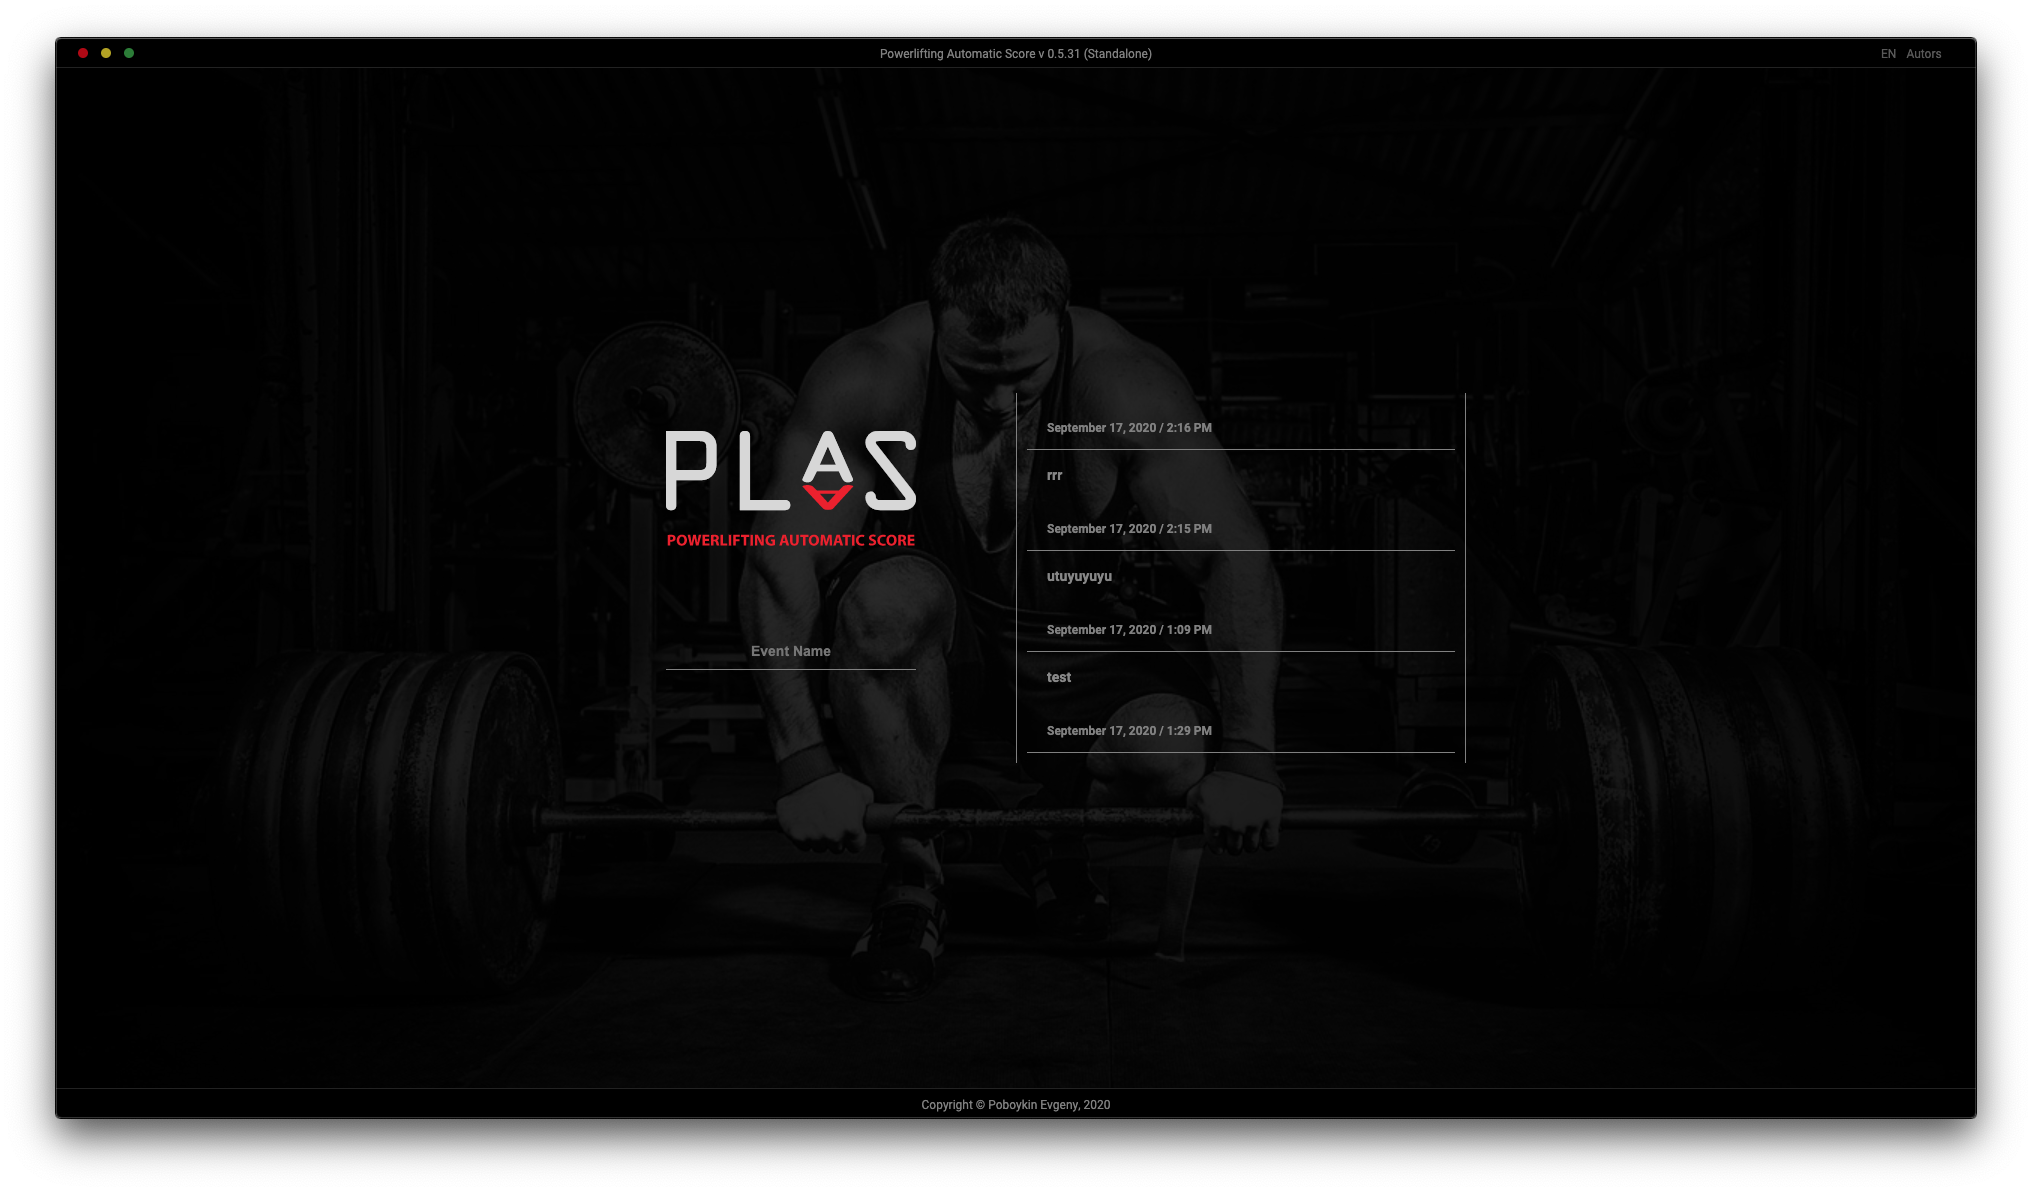
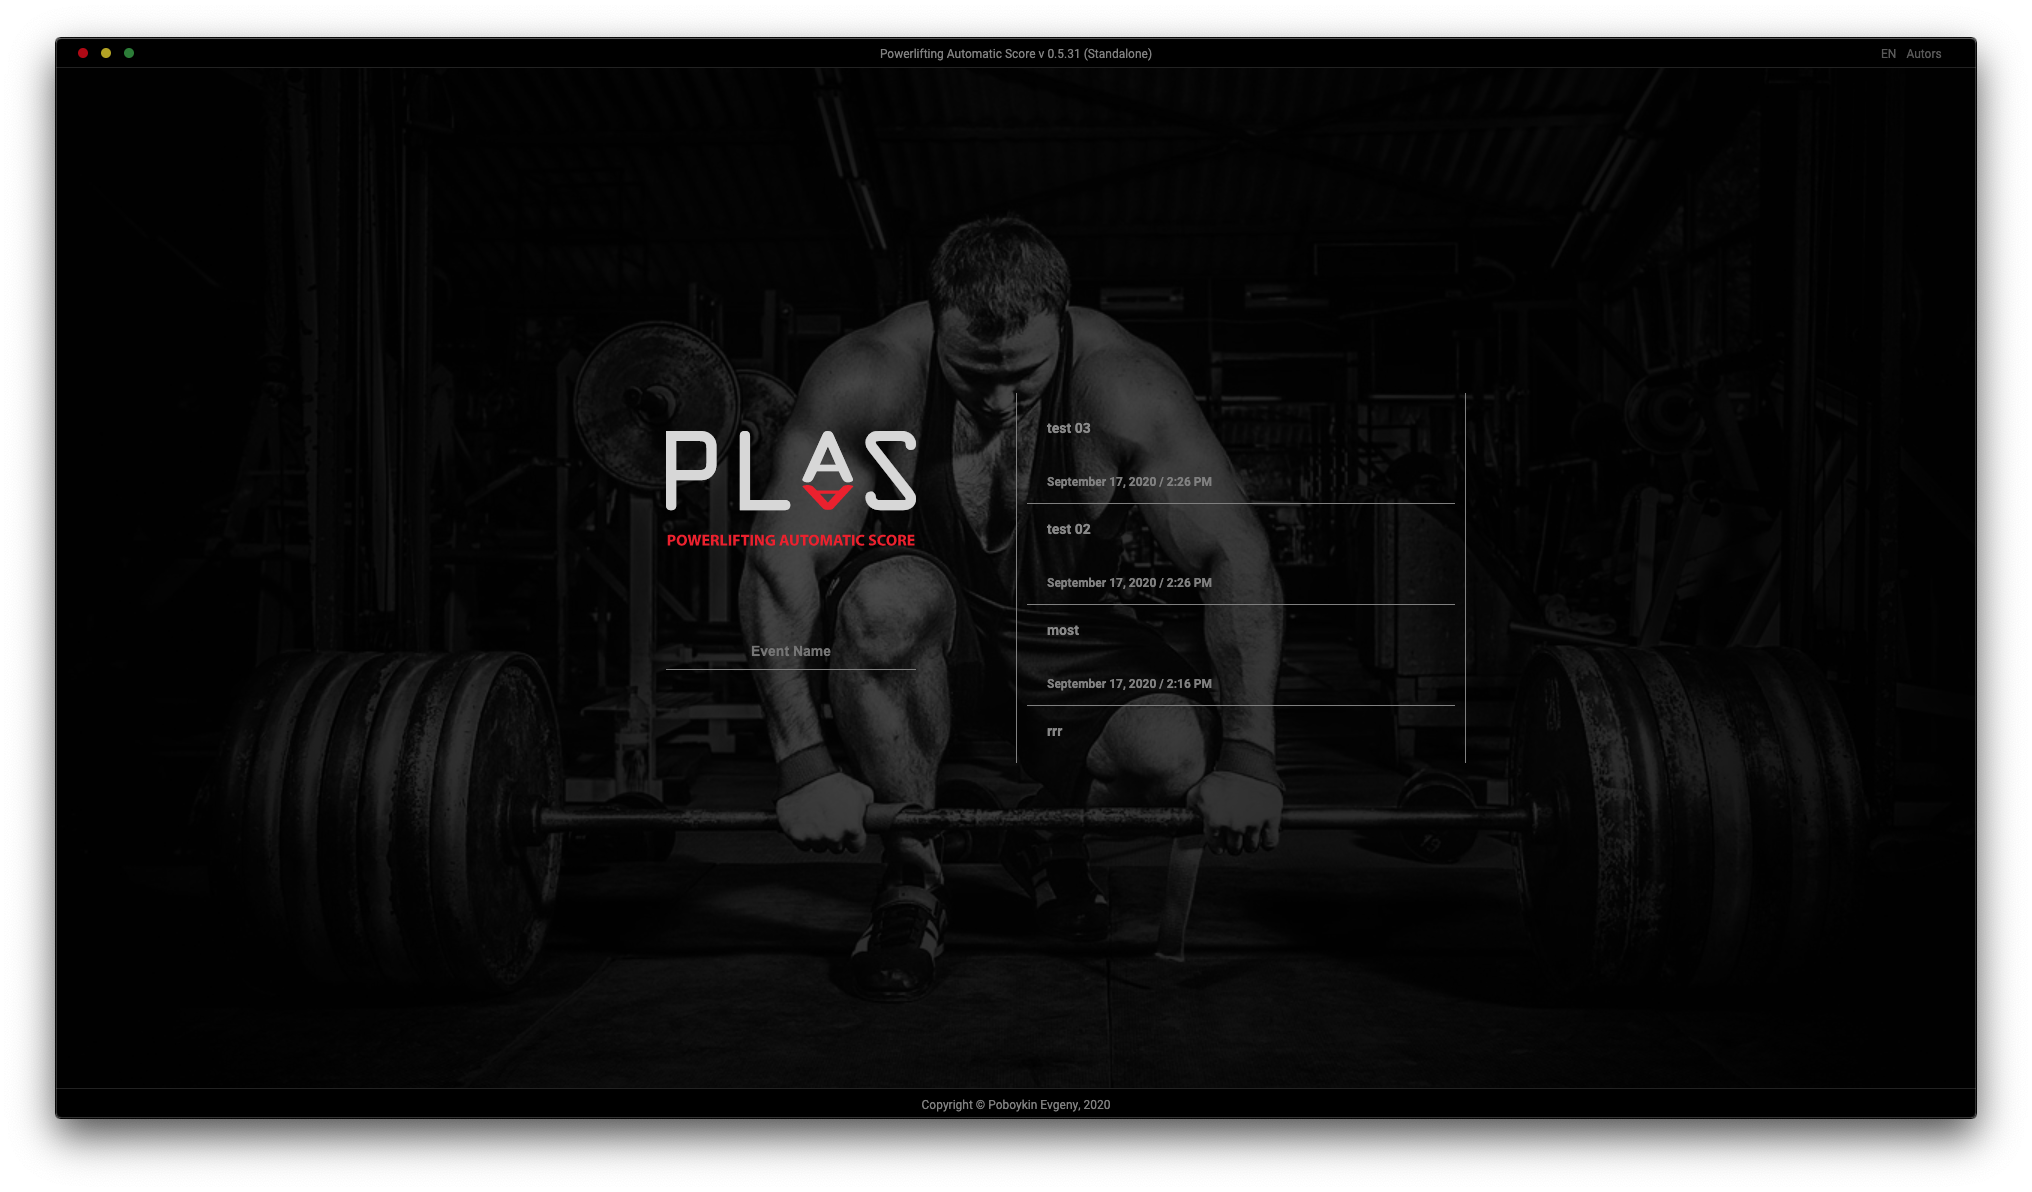
add SAP preview

diff --git a/src/assets/css/index.css b/src/assets/css/index.css
@@ -46,7 +46,7 @@ body::after {
     background-size: cover;
     background-position: center center;
     background-repeat: no-repeat;
-    opacity: 0.4;
+    opacity: 0.7;
     top: 0;
     left: 0;
     bottom: 0;
